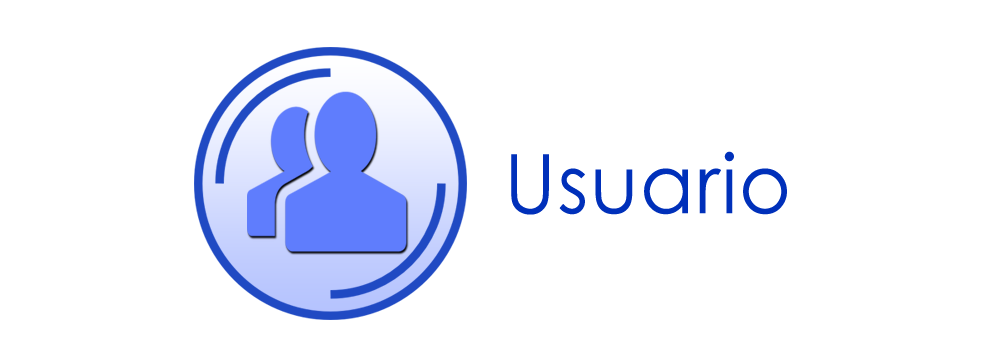
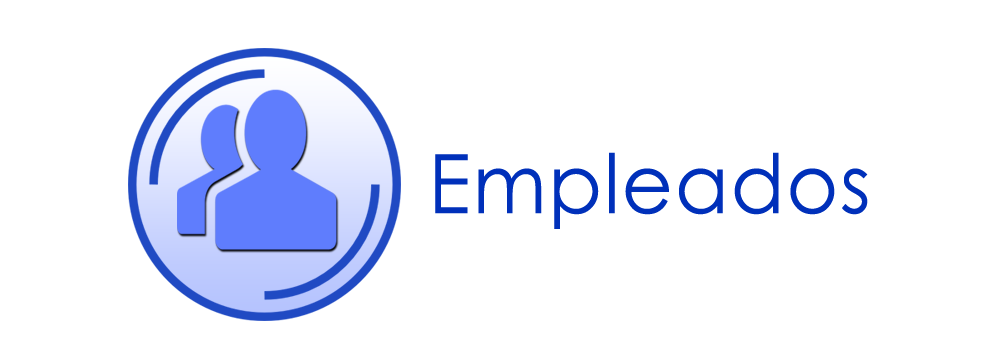
avance

Changed region(s): [[0.124, 0.1143, 0.868, 0.9143], [0.713, 0.4286, 0.744, 0.4571]]

diff --git a/css/style2.css b/css/style2.css
@@ -9,6 +9,7 @@ text-align: center;
  bottom:300px; /*Abajo deje un espacio de 0px*/
  height:50px;
 }
+
 a{
   background-colo:  #ffffff;
   border: 5px solid #E0F2F7;

diff --git a/Administrador/control_empleado.php b/Administrador/control_empleado.php
@@ -1,0 +1,55 @@
+<!DOCTYPE html>
+<html lang="es">
+<head>
+    <meta charset="utf-8">
+    <title>Usuarios Admin</title>
+    <link rel="stylesheet" type="text/css" href="bootstrap/css/bootstrap.css">
+<style>
+body{
+  background-image: url('../img/controlEmpleados.png');
+
+	background-size: 65% 45%;
+	background-repeat: no-repeat;
+	background-position: center top;
+	background-attachment: fixed;
+}
+.bot {
+
+transition: all 0.3s ease;
+
+text-align: center;
+ position: absolute;
+ left:110px; /*A la derecha deje un espacio de 0px*/
+ right:0px; /*A la izquierda deje un espacio de 0px*/
+ bottom:300px; /*Abajo deje un espacio de 0px*/
+ height:50px;
+}
+.bot a:hover{
+margin-top: 2px;
+}
+.grow:hover {
+  -webkit-transform: scale(1.1); -ms-transform: scale(1.1); transform: scale(1.1);
+ }
+ a{
+   background-colo:  #ffffff;
+   border: 5px solid #E0F2F7;
+   float: left;
+   margin: 15px;
+   -webkit-transition: margin 0.5s ease-out;
+   -moz-transition: margin 0.5s ease-out;
+   -ms-transition: margin 0.5s ease-out;
+   transition: margin 0.5s ease-out;
+ }
+
+</style>
+
+</head>
+<body>
+  <div  class="bot">
+
+    <a href="../empleados.php"><img src="../img/datosGenerales.png" height="180px" width="550px" ></a> &nbsp;
+    <a href="control_usuario.php"><img src="../img/datosReloj.png" height="180px" width="550px" ></a>
+      </div>
+
+</body>
+</html>

diff --git a/classes/log_empleado.php b/classes/log_empleado.php
@@ -1,15 +1,15 @@
 <?php
 session_start();
 require_once("../conexion.php");
-require_once("../Administrador/administrador.php");
+require_once("../Usuario/usuario.php");
 if( $conexion == false){
     echo "Error in connection.\n";
     die( print_r( sqlsrv_errors(), true));
 }
 $username = $_POST['nombre'];
-$password  = $_POST['pass'];
 
-$tsql = "SELECT * FROM Usuario WHERE username='$username' AND user_password_hash='$password'";
+
+$tsql = "SELECT * FROM User WHERE IdentificationNumber='$username'";
 //$tsql="SELECT * FROM Usuario WHERE username=".$_POST["user_name"]."' AND user_password_hash='".$_POST['user_password']."'";
 
 $stmt = sqlsrv_query( $conexion, $tsql);
@@ -26,13 +26,13 @@ $stmt = sqlsrv_query( $conexion, $tsql);
 }*/
 $row=sqlsrv_fetch_array($stmt);
 
-  if ($row['username']==$_POST['nombre'] && $row['user_password_hash']==$_POST['pass']) {
+  if ($row['IdentificationNumber']==$_POST['nombre']) {
     $_SESSION['valid_user'] = true;
     $_SESSION['nombre_usuario'] = $username;
-    header('Location: ../Administrador/opciones_admin.php');
+    header('Location: ../Usuario/opciones_empleado.php');
 
 } else {
-    header('Location: ../Administrador/administrador.php');
+    header('Location: ../Usuario/usuario.php');
     die();
 }
 

diff --git a/Usuario/usuario.php b/Usuario/usuario.php
@@ -19,11 +19,18 @@
 </div>
            <div class="alv">
 
-            <form method="post" accept-charset="utf-8" action="classes/log_action.php" name="loginform" autocomplete="off" role="form" class="form-signin">
+            <form method="post" accept-charset="utf-8" action="../classes/log_empleado.php" name="loginform" autocomplete="off" role="form" class="form-signin">
 
 					      <span id="reauth-email" class="reauth-email"></span>
-                <input class="form-control" placeholder="Usuario" name="nombre" type="text" autofocus="" required >
-                <input class="form-control" placeholder="Contraseña" name="pass" type="password"  autocomplete="off" required >
+                <input class="form-control" placeholder="Usuario" name="nombre" type="text" autofocus="" required value="<?php
+
+                $file = fopen("lect.txt", "r") or exit("Unable to open file!");
+                //Output a line of the file until the end is reached
+                        echo fgets($file);
+                        fclose($file);
+
+                 ?>
+                		">
                 <button type="submit" class="btn btn-lg btn-info btn-block btn-signin" name="login" >Iniciar Sesión</button>
             </form><!-- /form -->
 

diff --git a/Administrador/administrador.php b/Administrador/administrador.php
@@ -19,7 +19,7 @@
 </div>
            <div class="alv">
 
-            <form method="post" accept-charset="utf-8" action="classes/log_action.php" name="loginform" autocomplete="off" role="form" class="form-signin">
+            <form method="post" accept-charset="utf-8" action="../classes/log_action.php" name="loginform" autocomplete="off" role="form" class="form-signin">
 
 					      <span id="reauth-email" class="reauth-email"></span>
                 <input class="form-control" placeholder="Usuario" name="nombre" type="text" autofocus="" required >

diff --git a/Usuario/opciones_empleado.php b/Usuario/opciones_empleado.php
@@ -2,14 +2,19 @@
 <html lang="es">
 <head>
     <meta charset="utf-8">
-    <title>Usuarios Admin</title>
+    <title>Menú Principal Mantenimiento</title>
     <link rel="stylesheet" type="text/css" href="bootstrap/css/bootstrap.css">
     <link rel="stylesheet"  type="text/css" href="../css/style2.css" />
 
 </head>
 <body>
-<h1>
-  PAGINA EN MANTENIMIENTO
-</h1>
+<h2>
+
+  PAGINA EN MANTENIMEINTO
+</h2>
+
+
+    <script src="../../js/jquery-3.1.1.min.js"> </script>
+    <script src="../../js/main.js"></script>
 </body>
 </html>

diff --git a/Administrador/opciones_admin.php b/Administrador/opciones_admin.php
@@ -12,7 +12,7 @@
 
   <div  class="bot">
 
-    <a href="admin_empleado.php"><img src="../img/empleados.png" height="180px" width="550px" ></a> &nbsp;
+    <a href="control_empleado.php"><img src="../img/empleados.png" height="180px" width="550px" ></a> &nbsp;
     <a href="control_usuario.php"><img src="../img/usuarios.png" height="180px" width="550px" ></a>
       </div>
 </div>

diff --git a/index.php b/index.php
@@ -1,3 +1,3 @@
 <?php
-header("Location: empleados.php");
+header("Location: page_principal.php");
 ?>
